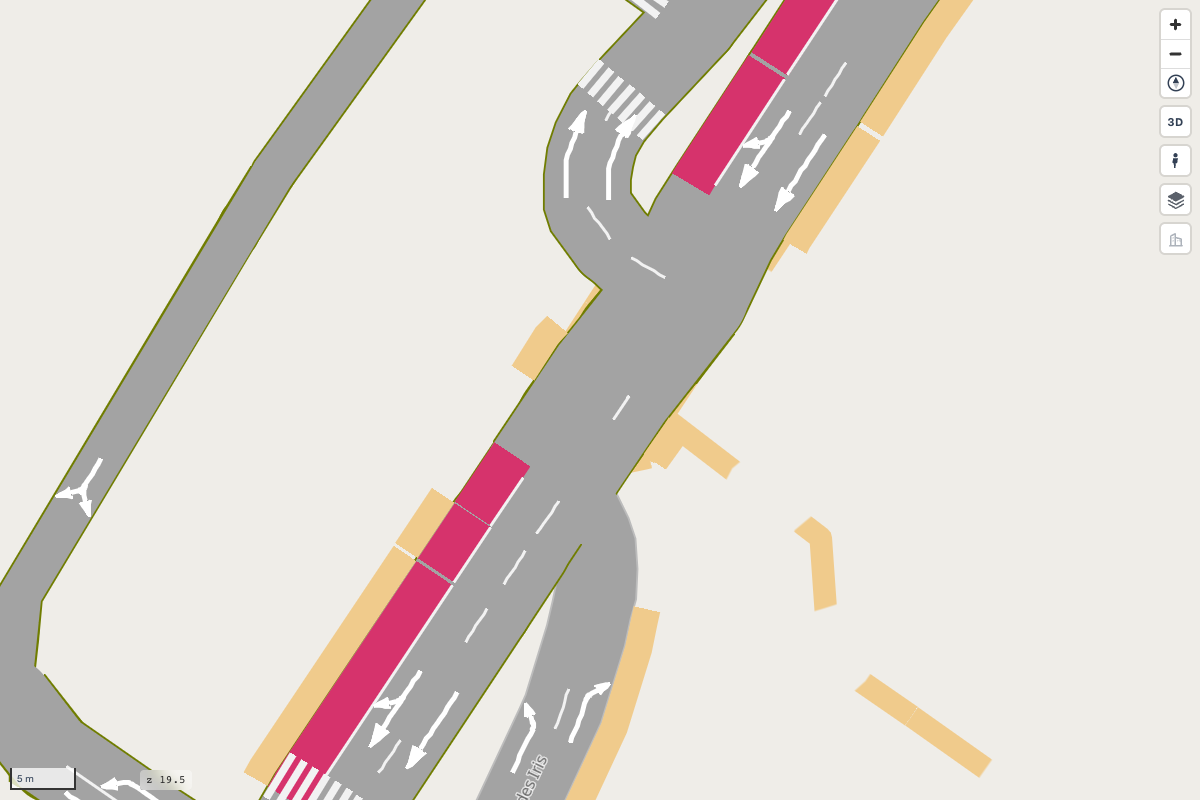
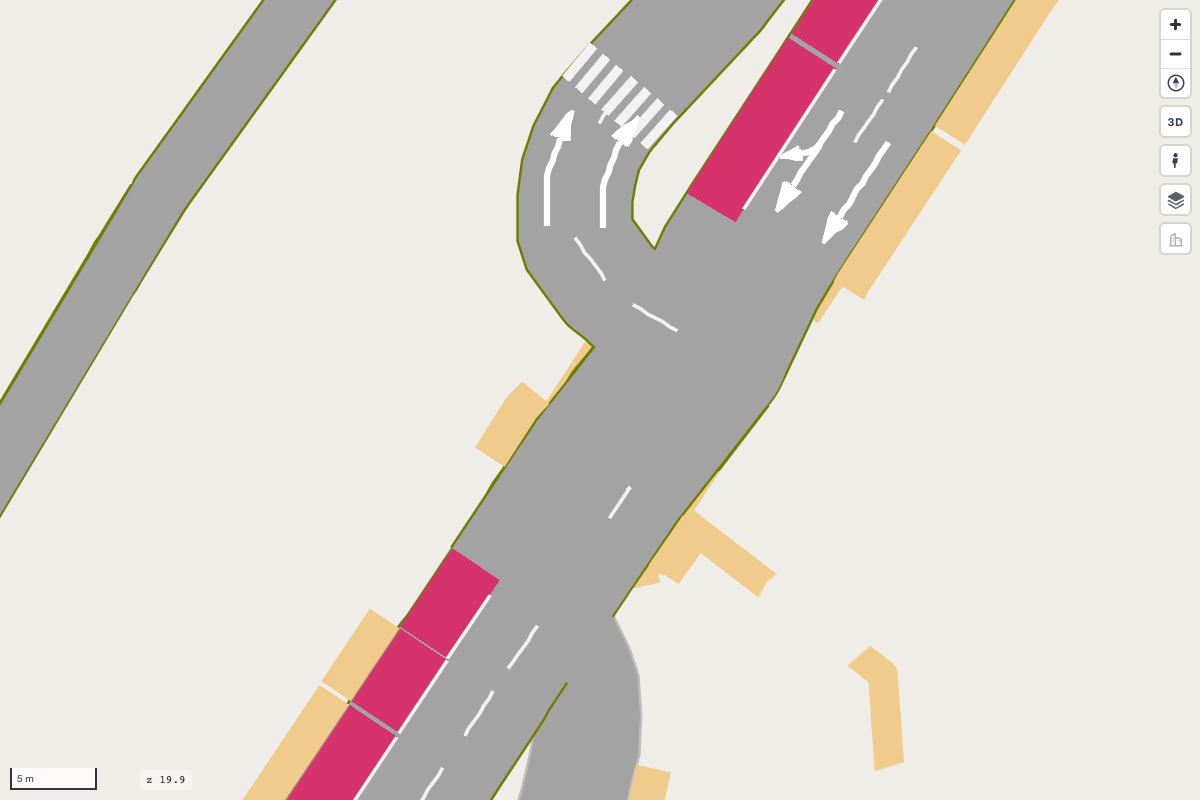
Docs: the tour shows one Monaco junction from GMNS and from SUMO, both drawn by roadstyle
The tour picture of the GMNS lanes (gmns_lane_width.png) is replaced by a pair: duckosm gmns-map (left) and duckosm sumo-map
(right) at the same view. exports/sumo.md has a See it section with the pair and a table of the differences; cli.md has sumo-map.

diff --git a/docs/assets/extra.css b/docs/assets/extra.css
@@ -135,6 +135,13 @@
 /* A tour: pictures of one size in two columns, cut to fit, the caption under each */
 .md-typeset .grid.tour { grid-template-columns: repeat(auto-fit, minmax(16rem, 1fr)); }
 .md-typeset .grid.tour figure img { width: 100%; aspect-ratio: 16 / 10; object-fit: cover; object-position: top left; border-radius: 0.4rem; }
+/* A pair of pictures side by side, one above the other on a phone; in the tour, on one full row */
+.md-typeset figure.pair { display: flex; flex-flow: row wrap; justify-content: center; gap: 0.6rem; }
+.md-typeset figure.pair img { flex: 1 1 14rem; min-width: 0; width: auto; border-radius: 0.4rem; }
+.md-typeset figure.pair figcaption { flex-basis: 100%; }
+.md-typeset figure.pair br { display: none; }
+.md-typeset .grid.tour figure.pair { grid-column: 1 / -1; }
+.md-typeset .grid.tour figure.pair img { aspect-ratio: 3 / 2; }
 
 /* Export: the diagram of the levels: a row of boxes with arrows; a column with down arrows on a phone */
 .md-typeset .dk-levels { display: flex; gap: 1.4rem; margin: 0.8rem 0 0.6rem; }

diff --git a/docs/exports/sumo.md b/docs/exports/sumo.md
@@ -45,6 +45,31 @@ netconvert does not build some U-turns. It never adds a turn.
 If netconvert is not found, the command stops. Install SUMO (`pip install "duckosm[sumo]"` or a system package), set
 `SUMO_HOME`, or use `--no-netconvert`.
 
+## See it
+
+```bash
+duckosm sumo monaco.duckdb                          # -> sumo/monaco.net.xml
+duckosm sumo-map sumo/monaco.net.xml                # -> monaco_lanes.html: each SUMO lane, drawn by roadstyle
+```
+
+`sumo-map` draws each `<lane>` of the `.net.xml` on its `shape` at its `width`, with the internal lanes of the junctions
+(the `:<junction>_<n>` edges) under the roads. The colors are those of [`gmns-map`](gmns.md#see-it): a car lane is gray, a
+bus lane red, a bike lane blue. The pictures below show one Monaco junction in the two exports, at the same view.
+
+<figure class="pair" markdown="span">
+  ![The lanes of one Monaco junction from the GMNS export, drawn by roadstyle](../images/tour-lanes-gmns.png)
+  ![The same junction from the SUMO export after netconvert, drawn by roadstyle](../images/tour-lanes-sumo.png)
+  <figcaption>One Monaco junction: the GMNS lanes (left, <code>duckosm gmns-map</code>) and SUMO's lanes after netconvert (right, <code>duckosm sumo-map</code>).</figcaption>
+</figure>
+
+| | GMNS (`duckosm gmns`) | SUMO (`duckosm sumo`) |
+|---|---|---|
+| Lanes: count, width, users | `driving.lane_profile` | `driving.lane_profile` |
+| Lane shape | duckOSM: the road line to the node, moved to the side for each lane (`geom`), and cut where SUMO's junction begins (`geom_cut`) | netconvert: each lane ends at the edge of its junction |
+| Inside a junction | the road surface goes on to the node; SUMO's paths are kept as `lane_connector` (a duckOSM extension) | netconvert's junction shape and its internal lanes |
+| Ids | `link_id` = `edge_id`; a `lane_id` for each lane | edge id = `edge_id`; lane id `<edge_id>_<index>`, index 0 on the right |
+| Tools | DuckDB and SQL, GMNS tools such as Path4GMNS and DTALite, `duckosm gmns-map` | SUMO (`sumo`, `sumo-gui`, `netedit`), `duckosm sumo-map` |
+
 ## Python
 
 ```python

diff --git a/docs/reference/cli.md b/docs/reference/cli.md
@@ -8,7 +8,7 @@ Every `duckosm` command and its options. `duckosm <command> --help` prints the s
 | [Build and areas](#build-and-areas) | `build`, `init-config`, `boundary`, `clip-pbf`, `extract` |
 | [Query and inspect](#query-and-inspect) | `way`, `features-check` |
 | [Maps and routing](#maps-and-routing) | `viz`, `route-map` |
-| [Exports](#exports) | `sumo`, `matsim`, `matsim-lanes`, `gmns`, `gmns-map`, `gmns-viz`, `export-gis`, `gis-debug`, `export-graph` |
+| [Exports](#exports) | `sumo`, `sumo-map`, `matsim`, `matsim-lanes`, `gmns`, `gmns-map`, `gmns-viz`, `export-gis`, `gis-debug`, `export-graph` |
 | [Experimental and lane-level](#experimental-and-lane-level) | `opendrive`, `lanelet2`, `railml`, `lane-graph`, `route-lanes` |
 | [Enrich a built database](#enrich-a-built-database) | `elevation`, `admin`, `multimodal` |
 
@@ -396,6 +396,19 @@ duckosm gmns-map [OPTIONS] GMNS_DB
 | `--palette TEXT` | road colours: `mono`, `carto` or `highsat` | `mono` |
 | `--source-db PATH` | the core db, for bridges and tunnels in a GMNS file made before links had them | |
 | `-o`, `--out TEXT` | output HTML | `<name>_lanes.html` |
+
+### `sumo-map`
+
+Writes an HTML map of a SUMO net (the `.net.xml` of `duckosm sumo`) with lanestyle and roadstyle: each lane on its own
+shape at its width, and the internal lanes through the junctions. Page: [See it](../exports/sumo.md#see-it).
+
+```text
+duckosm sumo-map [OPTIONS] NET
+```
+
+| Option | Does | Default |
+|---|---|---|
+| `-o`, `--out PATH` | output HTML | `<name>_lanes.html` |
 
 ### `gmns-viz`
 

diff --git a/docs/index.md b/docs/index.md
@@ -90,9 +90,10 @@ traffic simulation and routing. Fix the OSM data once, on a map. Your fixes go i
   <figcaption>Edit OSM data: the turns at a junction, in the browser or with <code>duckosm edit</code>.</figcaption>
 </figure>
 
-<figure markdown="span">
-  ![Every lane of a GMNS network as a width ribbon: traffic lanes, bus lanes and turn connectors](images/gmns_lane_width.png)
-  <figcaption>GMNS lanes of Södermalm: each lane with its own width, bus lanes and turn connectors.</figcaption>
+<figure class="pair" markdown="span">
+  ![The lanes of one Monaco junction from the GMNS export, drawn by roadstyle](images/tour-lanes-gmns.png)
+  ![The same junction from the SUMO export after netconvert, drawn by roadstyle](images/tour-lanes-sumo.png)
+  <figcaption>One Monaco junction: the GMNS lanes (left) and SUMO's lanes after netconvert (right). The roads have the same lanes; inside the junction, SUMO draws its own.</figcaption>
 </figure>
 
 <figure markdown="span">
